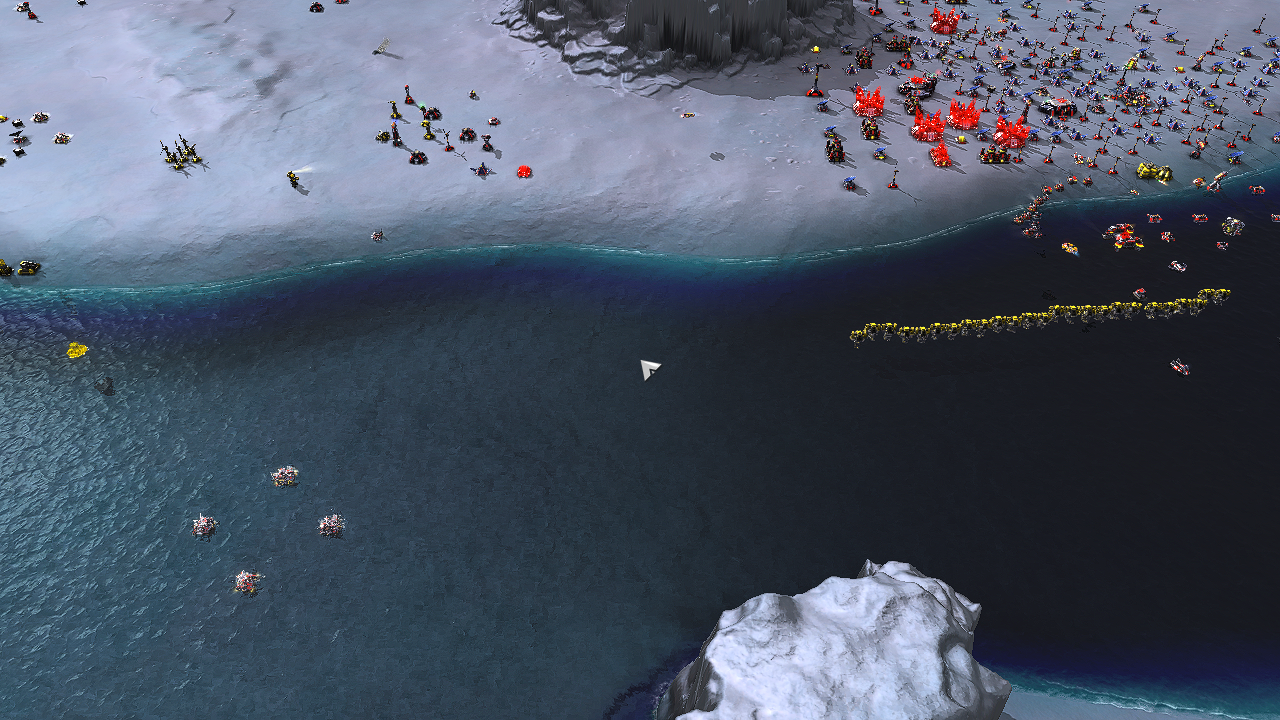
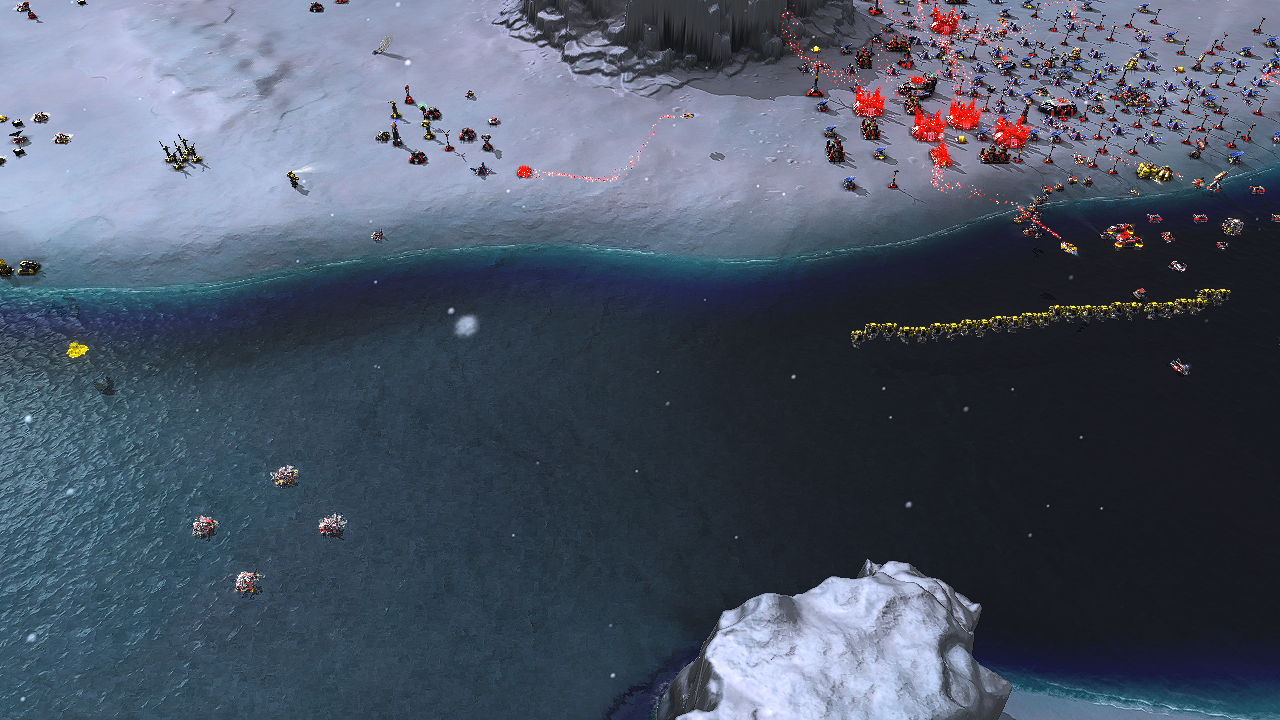
test(visreg): new baselines and a looser limit for picture 06 (approved by Adam)
Re-blessed from logs/local/visreg-20261109-183942 (the build with acu-034..046
and Mesa 0010): nano build spray now draws, and the hardware cursor is no
longer in screenshots. Picture 06 varies run to run (spray, water: mean
2.2-3.2, 1.0-1.6% bad between two runs of one build), so compare.py reads a
per-picture limits.txt and 06 gets 4.5 / 2.5%; the rest stay at 2.0 / 1.0%.
Fresh run: VISREG_OK (06 at 3.67 / 1.38%).

diff --git a/scripts/visreg/compare.py b/scripts/visreg/compare.py
@@ -1,6 +1,8 @@
 """Compare visreg pictures with their baselines (scripts/visreg.sh).
 
 Usage: compare.py <baseline-dir> <run-dir> [--max-mean M] [--max-bad-pct P]
+An optional limits.txt in the baseline dir overrides the limits per picture,
+one line each: <name.png> <max-mean> <max-bad-pct> (# starts a comment).
 Writes <name>-diff.png beside each failing picture and prints VISREG_OK or
 VISREG_FAIL with one line per picture.
 """
@@ -20,6 +22,13 @@ a = ap.parse_args()
 
 base, run = Path(a.base), Path(a.run)
 fails = 0
+limits = {}
+lf = base / "limits.txt"
+if lf.exists():
+    for line in lf.read_text().splitlines():
+        f = line.split("#", 1)[0].split()
+        if len(f) == 3:
+            limits[f[0]] = (float(f[1]), float(f[2]))
 names = sorted(p.name for p in base.glob("*.png") if not p.name.endswith("-diff.png"))
 if not names:
     print(f"VISREG_FAIL no baselines in {base}")
@@ -42,7 +51,8 @@ for name in names:
     mean = sum(i * c for ch in range(3) for i, c in enumerate(hist[ch * 256:(ch + 1) * 256])) / (px * 3)
     worst = diff.convert("L").point(lambda v: 255 if v > a.bad_level else 0)
     bad_pct = 100.0 * worst.histogram()[255] / px
-    ok = mean <= a.max_mean and bad_pct <= a.max_bad_pct
+    max_mean, max_bad = limits.get(name, (a.max_mean, a.max_bad_pct))
+    ok = mean <= max_mean and bad_pct <= max_bad
     print(f"  {name}: mean {mean:.2f}  bad {bad_pct:.2f}%  {'ok' if ok else 'FAIL'}")
     if not ok:
         fails += 1
